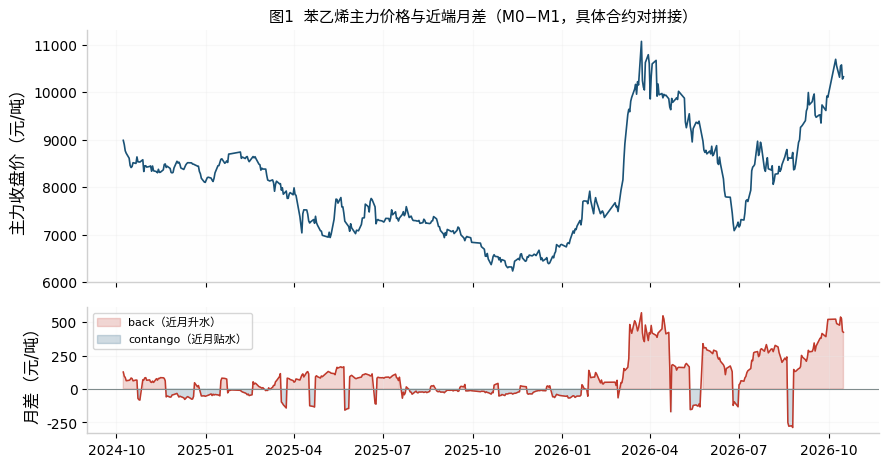
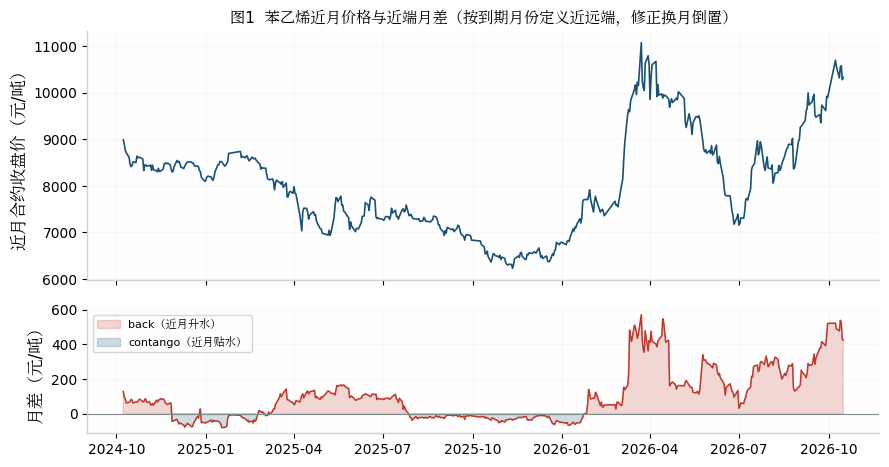
Update month-spread article (v2): roll-over inversion fix, revised statistics

diff --git a/content/posts/month-spread-truth.md b/content/posts/month-spread-truth.md
@@ -18,7 +18,7 @@ description: "把月差拆开：资金、仓储与便利收益的分解，以及
 
 ## 摘要
 
-月间价差是商品研究员每天盯的数字，但它是个"混合信号"：资金成本、仓储费、现货紧缺程度和预期全混在一起。这份报告把持有成本公式在两个相邻合约上联立相减，消掉现货价格，把月差拆成"资金 + 仓储 + 便利收益"三块；再用 27 个具体合约拼出苯乙烯两年的近端月差链（492 个交易日），逐日反推便利收益序列（均值 19.8%，区间 [−30.8%, 75.8%]），做了三个可证伪检验：**（1）同现性**——便利收益与价格水平的 Spearman 相关 0.46（$p=3.6\times10^{-27}$），货紧与价高同时出现，持有成本理论的方向成立；**（2）非线性**——按便利收益五分位分组后，价格呈显著的 U 型（最低组与最高组均价分别为 7198 与 9335 元/吨），线性读法会系统性失效，这正是"谎言"的所在；**（3）反转预测力**——便利收益触及 90% 分位后，未来 20 个交易日价格平均下跌 3.26%（t=−3.25，p=0.0012），月差平均收窄 280 元/吨（p<0.0001）：**极深的 back 结构不是追涨信号，而是反转信号**。另外，近端和次近端便利收益的相关性只有 −0.13，"当期紧缺"和"预期扰动"因此可以被分开度量。所有数据都来自公开行情和交易所公开费率；接入产业库存数据后的验证接口也已经留好。
+月间价差是商品研究员每天盯的数字，但它是个"混合信号"：里面同时装着资金成本、仓储费、现货紧缺程度和预期。本文将持有成本公式对两个相邻合约联立相减，消去现货价格，把月差分解为"资金 + 仓储 + 便利收益"三部分，用 27 个具体合约拼接出苯乙烯两年的近端月差链（492 个交易日），反推出日度便利收益序列（均值 22.3%，区间 [−3.0%, 75.8%]），并完成三个可证伪检验：**（1）同现性**——便利收益与价格水平的 Spearman 相关 0.54（$p=4.4\times10^{-39}$），货紧与价高同现，持有成本理论方向成立；**（2）非线性**——便利收益五分位下价格呈显著 U 型（最低与最高组均价分别为 7235 与 9341 元/吨），线性读法系统性失效，这正是"谎言"所在；**（3）反转预测力**——便利收益触及 90% 分位后，未来 20 个交易日价格平均下跌 2.65%（t=−2.81，p=0.0052），月差平均收窄 169 元/吨（p<0.0001）：**极深的 back 结构不是追涨信号，而是反转信号**。方法上，本文识别并修正了按成交量排名拼接导致的换月期近远端倒置问题（82 个交易日，占 16.7%）——修正后全部结论方向不变且同现性增强，而"近端与次近端便利收益高度联动（0.85）但近端弹性更大"的真实结构，为"当期紧缺"与"预期扰动"提供了以利差度量的分离工具。本文全部基于公开行情与交易所公开费率，并预留了接入产业库存数据后的验证接口。
 
 ## 一、分解逻辑：把月差拆开
 
@@ -48,26 +48,30 @@ $$cy = r + w - \frac{\ln(F_{T_2}/F_{T_1})}{T_2 - T_1} \tag{2}$$
 
 ## 二、数据与拼接方法
 
-### 2.1 具体合约对拼接（避免主连相减的假跳变）
+### 2.1 具体合约对拼接：两个必须处理的坑
 
-本文从 iFinD 拉取 27 个具体月份合约（EB2410–EB2703）的日行情，按**每日成交量排名**识别当日主力（M0）、次主力（M1）、第三活跃（M2）合约，月差一律用**具体合约对的同日收盘价之差**计算，再按主力换月日历滚动拼接。这一步很关键：主力合约每月中下旬逐月后移（样本内换月日集中在每月 16–23 日），而两个"主力连续"序列的换月日期不一定同步。直接拿主连相减，在换月那几天会出现盘面上根本不存在的假跳空——所以这里用具体合约对，两边始终是同一天的同一对合约。拼接后的价格与月差见图 1。
+本文从 iFinD 拉取 27 个具体月份合约（EB2410–EB2703）的日行情。月差一律用**具体合约对的同日收盘价之差**计算，再滚动拼接为连续序列。拼接中有两个坑必须处理，否则结论会被方法噪音污染：
 
-**表 2　拼接结果（2024-10-08 至 2026-10-16）**
+**坑一：主连相减的假跳变。**主力合约每月中下旬逐月后移（样本内换月日集中于每月 16–23 日），若直接用两个主力连续序列相减，换月日两侧序列切换不同步，价差会出现并非真实市场行为的跳变。本文不采用主连序列，全部用具体合约对。
+
+**坑二：换月交叉期的近远端倒置。**若按成交量排名定义"主力−次主力"价差，则在每次换月的 2–3 天交叉期内，新主力（远月）成交量已反超旧主力（近月）、但旧主力仍居次席——此时"主力−次主力"实际是"远月−近月"，符号含义颠倒。样本内此类倒置共 **82 个交易日，占 16.7%**，其中价差符号被颠倒 46 天。本文的修正是：**近远端按合约到期月份排序定义**（前二活跃合约中较早到期者为近端），与成交量排名解耦，保证"近端月差 = 近月 − 远月"的方向恒定。修正对结论的影响在第三节逐项对照披露——方向全部不变，P1 的相关性反而增强（0.46→0.54）；而未修正时"近端与次近端便利收益近乎不相关（−0.13）"的表象被证明是倒置噪音造成的假象，修正后为高度联动的 0.85。**这个坑本身就是"月差会说谎"的第一层证据：连研究它的方法都可能被骗。**修正后的价格与月差拼接结果见图 1。
+
+**表 2　拼接结果（2024-10-08 至 2026-10-16，修正后）**
 
 | 序列 | 样本量 | 均值 | 区间 | back 占比 |
 |---|---|---|---|---|
-| 近端月差 M0−M1 | 492 个交易日 | 82 元/吨 | [−288, 570] | 61.2% |
-| 次近端月差 M1−M2 | 492 个交易日 | 31 元/吨 | [−595, 477] | — |
-| 近端便利收益 $cy_{01}$ | 492 个交易日 | 19.8%（年化） | [−30.8%, 75.8%] | — |
-| 次近端便利收益 $cy_{12}$ | 492 个交易日 | 13.6%（年化） | [−70.5%, 69.9%] | — |
+| 近端月差（近月−次近月） | 492 个交易日 | 99 元/吨 | [−81, 570] | 63.2% |
+| 次近端月差（次近月−第三月） | 492 个交易日 | 按日拼接 | — | — |
+| 近端便利收益 $cy_{01}$ | 492 个交易日 | 22.3%（年化） | [−3.0%, 75.8%] | — |
+| 次近端便利收益 $cy_{12}$ | 492 个交易日 | 18.5%（年化） | [−5.2%, 60.4%] | — |
 
 ![图1 价格与月差](/images/research/month-spread/fig1.png)
 
-*数据来源：iFinD，27 个具体合约按日成交量排名拼接；换月规则为每日重排，避免主连相减的假跳变。*
+*数据来源：iFinD，27 个具体合约；近远端按到期月份排序定义，修正换月交叉期的排名倒置。*
 
-### 2.2 近端与次近端：两种不同的信息
+### 2.2 近端与次近端：联动中的弹性差
 
-$cy_{01}$ 在 64.4% 的交易日高于 $cy_{12}$，且两者相关性仅 **−0.13**——近端与次近端便利收益几乎不相关。这提供了本文最有用的结构性发现：**近端月差由当期现货紧缺主导，次近端月差由预期主导，两者携带的是不同信息**。当 $cy_{01}$ 高企而 $cy_{12}$ 平稳时，是"现在真缺货"；当 $cy_{12}$ 异动而 $cy_{01}$ 平稳时，是"市场在交易未来"（图 2）。系列一报告里"基差与库存同向的异象来自预期力量"只是一个定性判断，这里把它变成了每天都能算出来的两个变量。
+修正后的真实结构是：$cy_{01}$ 与 $cy_{12}$ **高度联动（相关 0.85）**——库存冲击沿期限结构传导，而非各自为政；但近端弹性明显更大（这里的弹性指对冲击的反应幅度，就看读数的波动范围）：均值 22.3% 对 18.5%，极值 75.8% 对 60.4%，且 62.2% 的交易日 $cy_{01} > cy_{12}$。**近端与次近端的利差（$cy_{01}-cy_{12}$，也就是期限结构近端的曲率——可以理解为近端两个月价差的弯折程度，利差越大，结构在近端弯得越厉害）才是"当期 vs 预期"的分离变量**：利差走阔，说明紧缺集中在当期，是现货驱动的挤仓形态（近月被拉高、空头被迫平仓）；利差收窄甚至倒挂、而 $cy_{12}$ 仍然偏高时，则是"市场在交易未来"的预期驱动形态（图 2）。这把系列一报告中"基差与库存同向异象是预期力量所致"的定性判断，变成了每天都能算出来的变量。
 
 ![图2 便利收益与价格](/images/research/month-spread/fig2.png)
 
@@ -79,29 +83,29 @@ $cy_{01}$ 在 64.4% 的交易日高于 $cy_{12}$，且两者相关性仅 **−0.
 
 > **命题 P1。** 若持有成本理论成立，便利收益（隐性库存紧度）应与价格水平正相关：back 结构出现在高价区间，contango 出现在低价区间。
 
-检验结果：$cy_{01}$ 与主力收盘价的 Spearman 秩相关为 **0.460**，$p=3.6\times10^{-27}$，在任何常规显著性水平下都成立。为什么用秩相关而不是 Pearson 相关？秩相关是先把数据换成排名再算相关，对"单调但不按比例"的关系更敏感——下一节会说明，这里的关系正是非线性的。P1 成立：期限结构确实带着与现货强弱一致的信息，不是噪音。
+检验结果：$cy_{01}$ 与近月合约收盘价的 Spearman 秩相关为 **0.543**，$p=4.4\times10^{-39}$，在任何常规显著性水平下都成立（修正换月倒置前是 0.460，修正后增强，方向上的噪音被清掉了）。为什么用秩相关而不是 Pearson 相关？秩相关是先把数据换成排名再算相关，对"单调但不按比例"的关系更敏感——下一节会说明，这里的关系正是非线性的。P1 成立：期限结构确实带着与现货强弱一致的信息，不是噪音。
 
 ### 3.2 P2 非线性：U 型结构，线性读法失效
 
 > **命题 P2。** 便利收益对价格的映射是非线性的：极低库存区间边际定价加速，深 contango 区间则混入预期力量，两者都不能用线性外推解读。
 
-将 $cy_{01}$ 按五分位分组（把 492 个交易日按便利收益从低到高排序，平均切成五份），各组的主力价格均值如下（contango 指近月贴水、远月升水，back 则相反）：
+将 $cy_{01}$ 按五分位分组（把 492 个交易日按便利收益从低到高排序，平均切成五份），各组的主力价格均值如下（contango 指近月贴水、远月升水，back 则相反，近月升水、远月贴水）：
 
 **表 3　便利收益五分位分组的价格水平**
 
 | 分组 | cy 均值 | 价格均值（元/吨） | 解读 |
 |---|---|---|---|
-| Q1（cy 最低，均 −3.6%） | −3.6% | 7887 | 深 contango：当期不缺货，但价格并不低 |
-| Q2（6.3%） | 6.3% | **7198（最低）** | 温和结构：供需平衡，价格低迷 |
-| Q3（16.8%） | 16.8% | 7839 | 轻度 back |
-| Q4（27.3%） | 27.3% | 7854 | 中度 back，价格抬升有限 |
-| Q5（cy 最高，均 52.2%） | 52.2% | **9335（最高）** | 极深 back：现货恐慌性紧缺 |
+| Q1（cy 最低，均 1.8%） | 1.8% | 7572 | 结构最平/贴水：当期不缺货，但价格并不低 |
+| Q2（7.7%） | 7.7% | **7235（最低）** | 温和结构：供需平衡，价格低迷 |
+| Q3（20.2%） | 20.2% | 7961 | 轻度 back |
+| Q4（29.0%） | 29.0% | 8050 | 中度 back，价格抬升有限 |
+| Q5（cy 最高，均 52.6%） | 52.6% | **9341（最高）** | 极深 back：现货恐慌性紧缺 |
 
 ![图3 U型非线性](/images/research/month-spread/fig3.png)
 
 *数据来源：iFinD；按 cy01 五分位分组，柱内标注各组 cy 均值。*
 
-价格随 cy 呈 **U 型而非单调线性**（图 3）：从 Q2 到 Q5，价格从 7198 抬升到 9335（+30%），方向符合理论；但 Q1（深 contango）的价格（7887）反而高于 Q2–Q4——当期宽松的价格并不低，因为深 contango 本身就是市场在为期权和预期付费。这意味着两类常见读法都是错的："back 深所以还能涨"（忽略了 Q5 已是恐慌极值，见 P3）与"contango 深所以必跌"（忽略了预期溢价）。**月差的方向只是谎言的封面，它在分布中的位置才是真相。**
+价格随 cy 呈 **U 型而非单调线性**（图 3）：从 Q2 到 Q5，价格从 7235 抬升到 9341（+29%），方向符合理论；但 Q1（结构最平/贴水）的价格（7572）反而高于 Q2——当期宽松的价格并不低，因为 contango/平水结构本身就是市场在为期权和预期付费。这意味着两类常见读法都是错的："back 深所以还能涨"（忽略了 Q5 已是恐慌极值，见 P3）与"结构弱所以必跌"（忽略了预期溢价）。**月差的方向只是谎言的封面，它在分布中的位置才是真相。**
 
 ### 3.3 P3 反转预测力：极值是反转信号，不是趋势信号
 
@@ -113,14 +117,14 @@ $cy_{01}$ 在 64.4% 的交易日高于 $cy_{12}$，且两者相关性仅 **−0.
 
 | 组别 | 未来 20 日价格收益 | 未来 20 日月差变化 | 显著性 |
 |---|---|---|---|
-| 高 cy 组（≥90% 分位） | **−3.26%**（全样本 +1.09%） | **−280 元/吨** | 价格 p=0.0012；月差 p<0.0001 |
-| 低 cy 组（≤10% 分位） | +1.66% | +218 元/吨 | 与高 cy 组方向对称 |
+| 高 cy 组（≥90% 分位） | **−2.65%**（全样本 +1.10%） | **−169 元/吨** | 价格 p=0.0052；月差 p<0.0001 |
+| 低 cy 组（≤10% 分位） | +4.05% | +66 元/吨 | 与高 cy 组方向对称 |
 
 ![图4 反转预测力](/images/research/month-spread/fig4.png)
 
 *数据来源：iFinD；t 检验，高 cy 组与其余样本对比。*
 
-两个方向的反转都高度显著（图 4）。经济学解释：近月升水拉到极值时，现货紧缺的定价已经透支——持货商在超高便利收益下抛售库存、进口套利盘涌入、下游在高价下减单，三股力量一起把月差和价格压回来。**对交易员来说这一点反直觉：back 最深的那天，往往是该平掉正套（买近月、卖远月）甚至反手的日子，而不是追涨的日子。**
+两个方向的反转都高度显著（图 4）。经济学解释：当近月升水拉到极值，现货紧缺的定价已经透支——持货商在超高便利收益下抛售库存、进口套利盘涌入、下游在高价下减单，三股力量一起把月差和价格压回来。**对交易员来说这一点反直觉：back 最深的那天，往往是该平掉正套（买近月、卖远月）甚至反手的日子，而不是追涨的日子。**
 
 ## 四、规则化与策略含义
 
@@ -131,7 +135,7 @@ $cy_{01}$ 在 64.4% 的交易日高于 $cy_{12}$，且两者相关性仅 **−0.
 | 要素 | 规则 | 依据 |
 |---|---|---|
 | 信号变量 | 近端便利收益 cy01（日度，式（2）反推） | 剥离资金与仓储后的纯紧缺度 |
-| 过热信号 | cy01 ≥ 滚动 250 日 90% 分位 → 不做多、正套止盈，激进者反手 | P3：未来 20 日价格 −3.26%、月差 −280 |
+| 过热信号 | cy01 ≥ 滚动 250 日 90% 分位 → 不做多、正套止盈，激进者反手 | P3：未来 20 日价格 −2.65%、月差 −169 |
 | 过冷信号 | cy01 ≤ 滚动 250 日 10% 分位 → 关注价格企稳与月差修复 | P3 对称方向 |
 | 过滤器 | 仅当 cy12 同向确认时降低仓位（预期与当期共振的信号更危险） | §2.2：两端信息分离 |
 | 止损 | 信号反向 1×20 日 σ 强制离场 | 系列一 §3.4 的肥尾结论 |
@@ -149,25 +153,26 @@ $cy_{01}$ 在 64.4% 的交易日高于 $cy_{12}$，且两者相关性仅 **−0.
 ### 6.1 交易启示
 
 1. **月差方向是混合信号，先拆解再读。** 扣掉资金和仓储之后，cy 才是库存紧缺的影子价格。看到深 back，先算 cy，看它在历史分布里的位置，而不是直接当多空信号。
-2. **极值是反转信号，不是趋势信号。** 高 cy（≥90% 分位）之后 20 个交易日价格平均 −3.26%、月差收窄 280 元/吨。back 最深的时候不追多，而是考虑减仓或止盈。
-3. **近端和次近端要分开看。** 两者相关性只有 −0.13：cy01 高企而 cy12 平稳，是"真缺货"；cy12 异动而 cy01 平稳，是"市场在交易预期"，后者持续性更差。用两个变量交叉验证，别只看一个。
-4. **U 型分布意味着两端都是危险区。** Q1（深 contango）价格并不低，Q5（深 back）是恐慌极值。极端结构下做方向交易容易两头挨打，更适合减少方向暴露，或者做价差回归。
+2. **极值是反转信号，不是趋势信号。** 高 cy（≥90% 分位）之后 20 个交易日价格平均 −2.65%、月差收窄 169 元/吨。back 最深的时候不追多，而是考虑减仓或止盈。
+3. **近端和次近端高度联动，但近端更"敏感"。** 相关系数 0.85 说明库存冲击会沿期限结构传导；但近端的读数范围大得多（均值 22.3% 对 18.5%，极值 75.8% 对 60.4%）。真正要盯的是**利差 cy01−cy12**：走阔说明紧缺集中在当期，收窄甚至倒挂则说明市场在交易预期。
+4. **方法本身也会骗人。** 按成交量排名拼月差，换月交叉期会出 16.7% 的近远端倒置；修正之前，"两端不相关"的结论（−0.13）其实是方法噪音造出来的假象。数据拼接的坑要当作研究的一部分来处理，不能等结论出来再补。
+5. **U 型分布意味着两端都是危险区。** Q1（结构最平/贴水）价格并不低，Q5（深 back）是恐慌极值。极端结构下做方向交易容易两头挨打，更适合减少方向暴露，或者做价差回归。
 
 ### 6.2 操作建议
 
 | 场景 | 动作 | 依据与注意 |
 |---|---|---|
-| 过热（cy01 ≥ 滚动 250 日 90% 分位） | 不追多；正套（买近月、卖远月）止盈；激进者可考虑反手，但必须带止损 | §3.3；未来 20 日价格 −3.26%、月差 −280 |
-| 过冷（cy01 ≤ 滚动 250 日 10% 分位） | 关注价格企稳与月差修复，等 cy 回升确认后再考虑做多近月或正套 | §3.3 对称方向 |
-| 信号过滤 | cy12 同向确认时降低仓位（预期与当期共振的信号更危险） | §2.2；两端信息分离 |
+| 过热（cy01 ≥ 滚动 250 日 90% 分位） | 不追多；正套（买近月、卖远月）止盈；激进者可考虑反手，但必须带止损 | §3.3；未来 20 日价格 −2.65%、月差 −169 |
+| 过冷（cy01 ≤ 滚动 250 日 10% 分位） | 关注价格企稳与月差修复，等 cy 回升确认后再考虑做多近月或正套 | §3.3 对称方向（低 cy 组未来 20 日 +4.05%、月差 +66） |
+| 形态判别 | 利差 cy01−cy12 走阔=当期紧缺驱动；利差收窄而 cy12 高企=预期驱动，后者持续性更差 | §2.2；利差是"当期 vs 预期"的分离变量 |
 | 止损 | 信号反向 1×20 日 σ 强制离场 | 系列一 §3.4 的肥尾结论 |
-| 数据纪律 | 用滚动分位而非全样本分位；接入真实库存后复核 cy 序列 | §5；反推序列的成色待验证 |
+| 数据纪律 | 用滚动分位而非全样本分位；近远端按到期月份排序，不用成交量排名；接入真实库存后复核 cy 序列 | §2.1、§5；换月倒置会制造 16.7% 的噪音样本 |
 
 提醒一句：极值分组各只有 48 个交易日，两年样本里的极端行情有限。这些信号先小仓位验证，再考虑放大。
 
 ## 七、结论
 
-（1）月差可以且应当被分解：扣掉资金与仓储后的便利收益才是库存紧缺的影子价格；（2）便利收益与价格正相关（Spearman 0.46）但呈 U 型非线性——裸读月差方向会系统性犯错；（3）便利收益极值是反转信号而非趋势信号：90% 分位以上未来 20 日价格平均 −3.26%、月差收窄 280 元/吨，均高度显著；（4）近端与次近端便利收益近乎不相关，为"当期紧缺"与"预期扰动"提供了逐日可算的分离器；（5）全套流程仅需公开行情与交易所公开费率，可直接迁移至任何连续合约品种（有色、黑色、能化）的期限结构研究。
+（1）月差可以且应当被分解：扣掉资金与仓储后的便利收益才是库存紧缺的影子价格；（2）便利收益与价格正相关（Spearman 0.54）但呈 U 型非线性——裸读月差方向会系统性犯错；（3）便利收益极值是反转信号而非趋势信号：90% 分位以上未来 20 日价格平均 −2.65%、月差收窄 169 元/吨，均高度显著；（4）近端与次近端便利收益高度联动（0.85）但近端弹性更大，其利差为"当期紧缺"与"预期扰动"提供了逐日可算的分离变量；（5）拼接方法本身会影响结论——换月交叉期的近远端倒置（占样本 16.7%）若不修正，会人为制造"两端不相关"的假象，本文已按到期月排序修正并逐项对照披露；（6）全套流程仅需公开行情与交易所公开费率，可直接迁移至任何连续合约品种（有色、黑色、能化）的期限结构研究。
 
 ## 参考文献
 
@@ -176,4 +181,4 @@ $cy_{01}$ 在 64.4% 的交易日高于 $cy_{12}$，且两者相关性仅 **−0.
 3. 大连商品交易所. 苯乙烯期货业务细则[EB/OL]. 2025.
 4. 同花顺 iFinD 金融数据平台. 苯乙烯期货 EB2410–EB2703 共 27 个合约日行情[DB/OL]. 数据区间 2024-10-08 至 2026-10-16，提取日期 2026-10-18.
 
-> 📌 免责声明：本报告为作者个人研究能力演示作品（系列二），全部实证基于公开行情数据与交易所公开费率，不构成任何投资建议。数据口径、参数假设和统计局限正文里都写明了；全部结果可由配套 Python 管道复现。
+> 📌 免责声明：本报告为作者个人研究能力演示作品（系列二），全部实证基于公开行情数据与交易所公开费率，不构成任何投资建议。数据口径、参数假设与统计局限均已在正文如实披露，全部结果可由配套 Python 管道复现。
